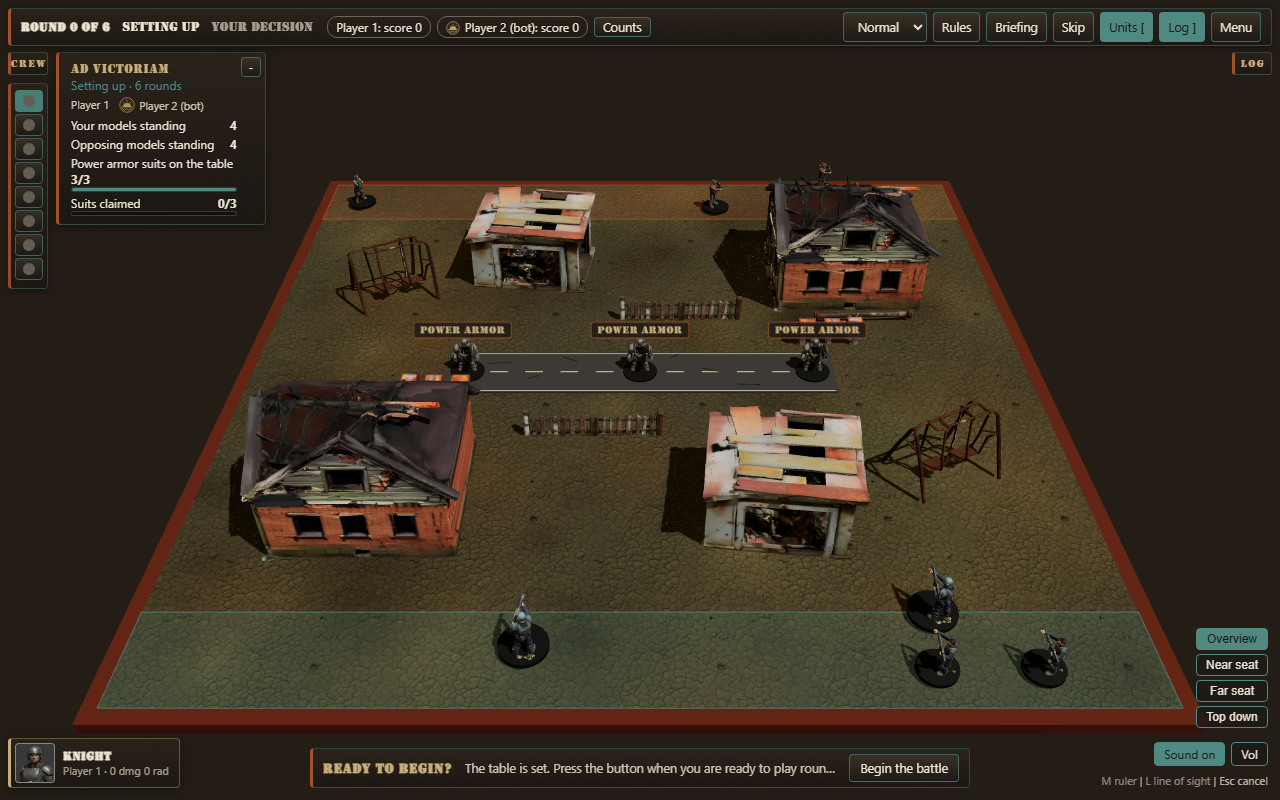
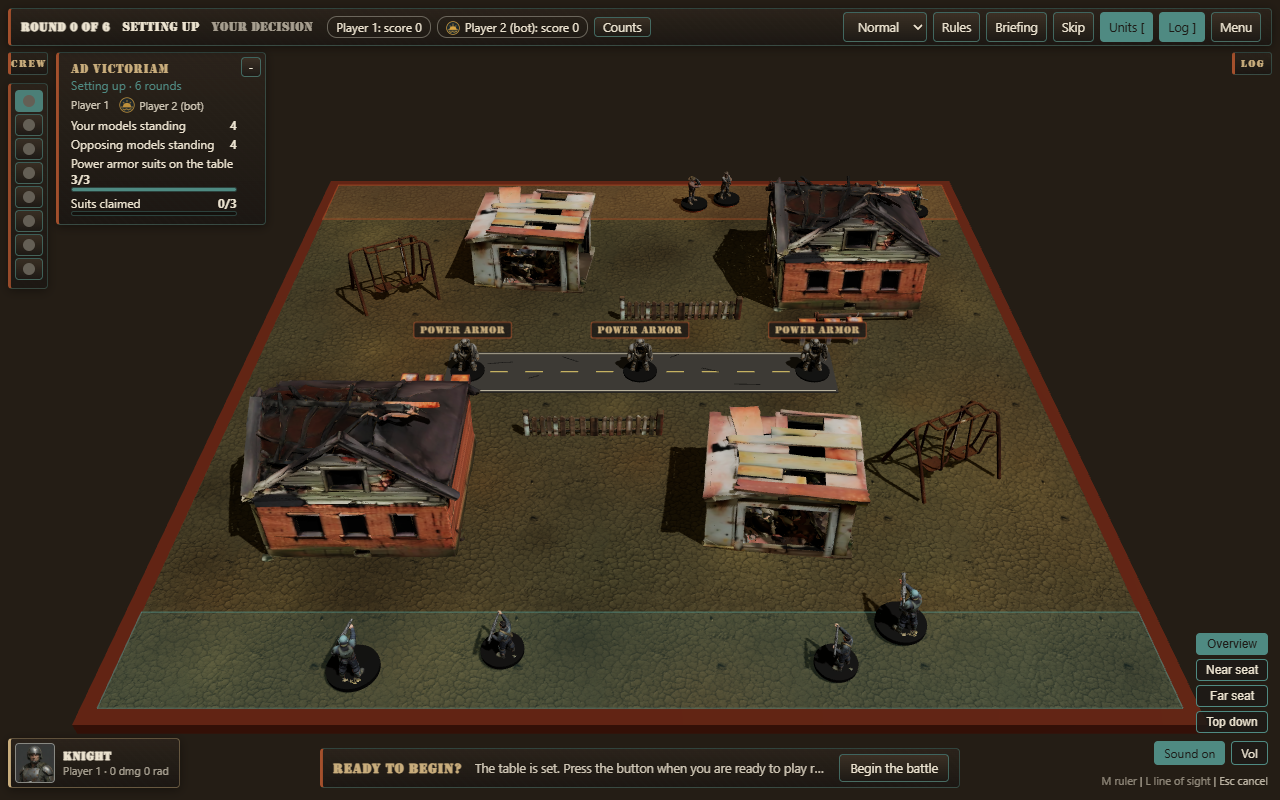
M6b: polish (campaign card on the first screen, settlement layout, force-pick hint, bottom-edge layout, lighter briefing backdrop and table theme from the campaign launch), carry-off victories fire when a carrier leaves the table, handoff refreshed

diff --git a/src/client/ui/settlement/SettlementScreen.tsx b/src/client/ui/settlement/SettlementScreen.tsx
@@ -74,9 +74,11 @@ export function SettlementScreen({ onLeave, host: h }: { onLeave: () => void; ho
           <StepList steps={steps} cursor={cursor} />
         </div>
         <div className="st-col" aria-label="This step">
+          {/* On the last step the choice of battle is the whole point, so it comes first; before that it waits under the step. */}
+          {step?.id === 'toBattle' && <NextBattlePanel />}
           {step ? <StepPanel step={step} last={cursor >= steps.length - 1} /> : <p className="st-empty">Nothing to do right now.</p>}
           {error && <p className="st-err" role="alert" data-testid="settlement-error">{error}</p>}
-          <NextBattlePanel />
+          {step?.id !== 'toBattle' && <NextBattlePanel />}
         </div>
         <div className="st-col" aria-label="What you have">
           <RosterPanel />
@@ -168,6 +170,7 @@ function StepPanel({ step, last }: { step: StepView; last: boolean }) {
       <h3 data-testid="settlement-step-title">{copy.title}</h3>
       <p className="st-note">{copy.blurb || step.blurb}</p>
       <p className="st-note"><b>{copy.decision || step.decision}</b></p>
+      {step.hint && <p className="st-note" data-testid="step-hint">{step.hint}</p>}
       {step.auto && step.choices.length === 0 && <p className="st-empty" data-testid="step-auto">Nothing to decide here.</p>}
       {step.choices.length === 0 && !step.auto && <p className="st-empty" data-testid="step-nothing">Nothing on offer right now.</p>}
       {multi && <p className="st-note" data-testid="step-picked">Picked {picked.length} of up to {multi.max}.</p>}
@@ -183,7 +186,7 @@ function StepPanel({ step, last }: { step: StepView; last: boolean }) {
           <button className="st-btn primary" data-testid="step-confirm" disabled={picked.length < multi.min} onClick={() => { if (act(multi.confirm!(picked))) setPicked([]) }}>{multi.confirmLabel ?? 'Confirm'}</button>
         )}
         {step.id === 'toBattle'
-          ? <p className="st-note" data-testid="step-battle-note">Pick the scenario and opponent below, then press To battle.</p>
+          ? <p className="st-note" data-testid="step-battle-note">Pick the scenario and opponent in the panel above, then press To battle.</p>
           : <button className={multi ? 'st-btn' : 'st-btn primary'} data-testid="step-next" onClick={finishStep}>{last ? 'Done' : step.optional || step.auto ? 'Next step' : 'Done with this step'}</button>}
       </div>
     </section>
@@ -215,13 +218,15 @@ const pickListeners = new Set<() => void>()
 function readPick(): NextBattle {
   if (!sharedPick) {
     const saved = host().readJson<Partial<NextBattle>>(NEXT_KEY) ?? {}
-    sharedPick = { scenarioId: saved.scenarioId ?? 'box-1', opponent: saved.opponent ?? 'bot', seed: '' }
+    // The table theme starts as the one picked on the start screen, so a campaign table looks like a normal launch.
+    const theme = saved.theme !== undefined ? saved.theme : host().startTheme()
+    sharedPick = { scenarioId: saved.scenarioId ?? 'box-1', opponent: saved.opponent ?? 'bot', seed: '', theme: theme && host().themes.some((t) => t.id === theme) ? theme : null }
   }
   return sharedPick
 }
 function setPick(p: Partial<NextBattle>): void {
   sharedPick = { ...readPick(), ...p }
-  host().writeJson(NEXT_KEY, { scenarioId: sharedPick.scenarioId, opponent: sharedPick.opponent })
+  host().writeJson(NEXT_KEY, { scenarioId: sharedPick.scenarioId, opponent: sharedPick.opponent, theme: sharedPick.theme })
   pickListeners.forEach((f) => f())
 }
 
@@ -247,7 +252,8 @@ function useNextBattle(): NextBattleState {
   const problem = scenarios.length ? opponentProblem(pick.opponent, chosen) : null
   const go = () => {
     const r = prepareBattle(pick)
-    if (r) host().launchGame(r.options)
+    // A themed table only dresses an open skirmish table against a bot or a friend; any other scenario keeps its own terrain.
+    if (r) host().launchGame({ ...r.options, ...(pick.theme && pick.opponent !== 'official' && host().themeable(r.options.scenarioId ?? pick.scenarioId) ? { theme: pick.theme } : {}) })
   }
   return { pick, set: setPick, scenarios, problem, ready: problem === null, go }
 }
@@ -255,6 +261,7 @@ function useNextBattle(): NextBattleState {
 function NextBattlePanel() {
   const nb = useNextBattle()
   const { pick } = nb
+  const themeable = pick.opponent !== 'official' && host().themeable(pick.scenarioId)
   return (
     <section className="st-panel" data-testid="next-battle">
       <h2>Next battle</h2>
@@ -273,6 +280,15 @@ function NextBattlePanel() {
           </button>
         ))}
       </div>
+      {themeable && (
+        <>
+          <p className="st-note">Table theme</p>
+          <div className="st-pick" data-testid="next-theme">
+            <button aria-pressed={!pick.theme} data-testid="next-theme-none" onClick={() => nb.set({ theme: null })}>Scenario layout</button>
+            {host().themes.map((t) => <button key={t.id} aria-pressed={pick.theme === t.id} data-testid={`next-theme-${t.id}`} onClick={() => nb.set({ theme: t.id })}>{t.label}</button>)}
+          </div>
+        </>
+      )}
       <p className="st-note"><label htmlFor="nb-seed">Dice seed (optional)</label></p>
       <input id="nb-seed" type="text" data-testid="next-seed" placeholder="random" maxLength={40} value={pick.seed} onChange={(e) => nb.set({ seed: e.target.value })} />
       {nb.problem && <p className="st-err" data-testid="next-problem">{nb.problem}</p>}

diff --git a/src/client/ui/StartScreen.tsx b/src/client/ui/StartScreen.tsx
@@ -48,6 +48,9 @@ const SETTLEMENT_HOST: SettlementHost = {
   launchGame, loadScenarioChoices, loadCampaignFactions, hasCampaignSave, readJson, writeJson, removeKey,
   openRequest: () => { const s = useLaunchStore.getState(); return { mode: s.campaignMode, seed: s.campaignSeed, faction: s.campaignFaction } },
   testMode: () => readParams().test,
+  themes: THEMES.map((t) => ({ id: t.id, label: t.label })),
+  themeable: (scenarioId) => THEMEABLE.has(scenarioId),
+  startTheme: () => asTheme(readJson<Partial<Prefs>>(PREF_KEY)?.theme),
 }
 
 function StartMenu() {
@@ -119,6 +122,28 @@ function StartMenu() {
         <h1>Fell-in: Wasteland Warfair</h1>
         <p className="tag">A 3D tabletop skirmish on a dusty 3 by 3 foot table.</p>
         <p className="sc-note">New to the game? <HowToPlayButton link testId="start-how-to-play" label="Read how to play" /></p>
+
+        <section className="sc-sec" aria-label="Campaign">
+          <h2 className="sc-h">Campaign</h2>
+          <div className="sc-row" data-testid="campaign-modes">
+            <button className="sc-chip" data-testid="campaign-new" onClick={() => openCampaign('new', null, campaignFaction)}>
+              New campaign<small>Build a settlement between battles: spend caps, store gear, pick the next fight.</small>
+            </button>
+            {campaignSave && (
+              <button className="sc-chip" data-testid="campaign-continue" onClick={() => openCampaign('continue')}>
+                Continue campaign<small>{campaignSave.name}, round {campaignSave.round}, {campaignSave.caps} caps</small>
+              </button>
+            )}
+          </div>
+          {factions.length > 1 && (
+            <div className="sc-row sc-factions" data-testid="campaign-faction">
+              <span className="sc-note">Start as</span>
+              {factions.map((f) => (
+                <button key={f.id} className="sc-chip" aria-pressed={campaignFaction === f.id} data-testid={`campaign-faction-${f.id}`} onClick={() => { setFaction(f.id); writeJson(PREF_KEY, { scenarioId, mode, tier, team, theme, faction: f.id }) }}>{f.name}</button>
+              ))}
+            </div>
+          )}
+        </section>
 
         <section className="sc-sec" aria-label="Scenario">
           <h2 className="sc-h">Scenario</h2>
@@ -217,26 +242,6 @@ function StartMenu() {
             </button>
           )}
         </div>
-
-        <section className="sc-sec" aria-label="Campaign">
-          <h2 className="sc-h">Campaign</h2>
-          <p className="sc-note">Build a settlement between battles: spend caps, store gear, pick the next fight.</p>
-          {factions.length > 1 && (
-            <div className="sc-row" data-testid="campaign-faction" style={{ marginTop: 6 }}>
-              {factions.map((f) => (
-                <button key={f.id} className="sc-chip" aria-pressed={campaignFaction === f.id} data-testid={`campaign-faction-${f.id}`} onClick={() => { setFaction(f.id); writeJson(PREF_KEY, { scenarioId, mode, tier, team, theme, faction: f.id }) }}>{f.name}</button>
-              ))}
-            </div>
-          )}
-          <div className="sc-actions" style={{ marginTop: 8, justifyContent: 'flex-start' }}>
-            <button className="go alt" data-testid="campaign-new" onClick={() => openCampaign('new', null, campaignFaction)}>New campaign</button>
-            {campaignSave && (
-              <button className="go alt" data-testid="campaign-continue" onClick={() => openCampaign('continue')}>
-                Continue campaign ({campaignSave.name}, round {campaignSave.round}, {campaignSave.caps} caps)
-              </button>
-            )}
-          </div>
-        </section>
 
         <p className="fine" data-testid="disclaimer">
           Unofficial fan project, not affiliated with Modiphius Entertainment, Bethesda Softworks or ZeniMax. By evilgouki.

diff --git a/tests/engine/carry-off.test.ts b/tests/engine/carry-off.test.ts
@@ -1,0 +1,60 @@
+// Carry-off victories: a model that walks off the table with a scenario object takes it with it (MOVE-011, BOX-2 / BOX-3).
+import { describe, expect, it } from 'vitest'
+import { apply } from '../../src/engine/apply'
+import { activationMenu } from '../../src/engine/turnflow'
+import { checkVictory } from '../../src/engine/scenario'
+import { createGame } from '../../src/engine/setup'
+import { withPending, loadBundle } from './helpers'
+import type { GameState, Vec2 } from '../../src/engine/types'
+
+const bundle = loadBundle()
+
+/** A box scenario in play, the first model of `seat` ready, activated and next to the south edge, carrying the first `face` marker. */
+function carrierAtEdge(scenarioId: string, seat: string, face: string, otherEdge = false): { s: GameState; id: string } {
+  const g = createGame(bundle, { seed: 'carry', scenarioId })
+  const mk = g.markers.find((m) => m.face === face)!
+  const m = Object.values(g.models).find((x) => x.owner === seat && x.life === 'active' && !x.offTable)!
+  const z = otherEdge ? -16.5 : 16.5
+  const models = Object.fromEntries(Object.entries(g.models).map(([k, v]) => [k, k === m.id ? { ...v, pos: { x: 0, z }, readiness: 'ready' as const } : { ...v, pos: { x: v.pos.x > 0 ? 12 : -12, z: v.pos.z > 0 ? 8 : -8 } }]))
+  const base: GameState = {
+    ...g, models, phase: 'play', round: 1, advantage: seat, terrain: [],
+    markers: g.markers.map((k) => (k.id === mk.id ? { ...k, carriedBy: m.id, pos: { x: 0, z } } : k)),
+    turn: { seat, step: 'use', readied: m.id, firstSeat: seat },
+    activation: { modelId: m.id, actionsTaken: 0, ap: 0, apIconsUsed: [], heavyFired: false, testsUsed: [] },
+  }
+  const menu = activationMenu(base, bundle, m.id)
+  const go = menu.find((o) => o.action.type === 'move.go')!
+  const open = withPending(base, { seat, kind: 'turn.activation', context: {}, options: menu, canPass: false })
+  const r = apply(open, bundle, open.pending.options.find((o) => o.id === go.id)!.action)
+  if (!r.ok) throw new Error(r.rejection.message)
+  return { s: r.state, id: m.id }
+}
+const exit = (s: GameState, path: Vec2[]) => {
+  const to = s.pending.options.find((o) => o.action.type === 'move.to')!
+  const r = apply(s, bundle, { ...to.action, path })
+  if (!r.ok) throw new Error(r.rejection.message)
+  return r.state
+}
+
+describe('carry-off', () => {
+  it('MOVE-011 a model walking off the table takes the nuke it carries: the marker is flagged off the table with the carrying seat and the attacker wins box-2', () => {
+    const seat = Object.entries(createGame(bundle, { seed: 'carry', scenarioId: 'box-2' }).seats).find(([, v]) => v.side === 'attacker')![0]
+    const { s, id } = carrierAtEdge('box-2', seat, 'mini-nuke')
+    const after = exit(s, [{ x: 0, z: 19 }])
+    expect(after.models[id]!.life).toBe('dead')
+    const nuke = after.markers.find((m) => m.face === 'mini-nuke')!
+    expect(nuke.props.offTable).toBe(true)
+    expect(nuke.props.offTableBy).toBe(seat)
+    expect(after.result?.winner ?? checkVictory(after, bundle)?.winner).toBe(seat)
+  })
+
+  it('MOVE-011 a model that only walks along the edge keeps what it carries', () => {
+    const seat = Object.entries(createGame(bundle, { seed: 'carry', scenarioId: 'box-2' }).seats).find(([, v]) => v.side === 'attacker')![0]
+    const { s, id } = carrierAtEdge('box-2', seat, 'mini-nuke')
+    const after = exit(s, [{ x: 2, z: 16.5 }])
+    expect(after.models[id]!.life).toBe('active')
+    const nuke = after.markers.find((m) => m.face === 'mini-nuke')!
+    expect(nuke.carriedBy).toBe(id)
+    expect(nuke.props.offTable).not.toBe(true)
+  })
+})

diff --git a/src/client/ui/settlement/choices.ts b/src/client/ui/settlement/choices.ts
@@ -74,7 +74,7 @@ function buildStep(c: Campaign, id: StepId, i: number, p: CampaignPlayer, d: Cam
     case 'afterBattle.sell':
     case 'select.sell':
     case 'toBattle':
-      return { ...s, auto: true }
+      return { ...s, auto: true, ...(p.force ? {} : { hint: noForceHint(true) }) }
 
     case 'afterBattle.retain': {
       const normal = p.phase.gathered.filter((x) => !x.unique)
@@ -345,6 +345,11 @@ export function autoForce(p: CampaignPlayer, d: CampaignData, limit: number): Fo
   return plan
 }
 
+/** What happens when nobody was picked: the layer's startBattle takes the regular force (adapter.ts), so the screen says so. */
+function noForceHint(onBattleStep: boolean): string {
+  return `${onBattleStep ? 'No force picked yet: ' : 'Leave this empty and '}To battle fields a regular force (${DEFAULT_FORCE_LIMIT} caps) for you, the leader first and then your roster in order.`
+}
+
 function forceStep(s: StepView, p: CampaignPlayer, d: CampaignData): StepView {
   const seat = p.seat
   // Every unit is on offer (CH p24); its price counts inside the force value, nothing is paid here.
@@ -368,7 +373,7 @@ function forceStep(s: StepView, p: CampaignPlayer, d: CampaignData): StepView {
   const limit = p.force?.capsLimit ?? DEFAULT_FORCE_LIMIT
   const toggles = [...members, ...perks, ...heroic]
   return {
-    ...s, optional: false,
+    ...s, optional: false, ...(p.force ? {} : { hint: noForceHint(false) }),
     decision: p.force ? `Your force is set: ${p.force.members.length} model${p.force.members.length === 1 ? '' : 's'}, ${p.force.value} of ${p.force.capsLimit} caps. Change it, or head to battle.` : 'Pick who fights, or take a quick pick.',
     choices: [...auto, ...toggles, ...hire, ...dismiss],
     multi: {

diff --git a/src/client/ui/styles.css b/src/client/ui/styles.css
@@ -21,11 +21,11 @@ body { margin: 0; overflow: hidden; }
 .hud .title { color: var(--sand); font-weight: 600; margin-right: 8px; }
 
 /* camera presets live bottom-right (the top bar used to cover them); the title is already on the start screen and in the tab */
-.game > .hud { top: auto; left: auto; right: 12px; bottom: 72px; flex-direction: column; align-items: stretch; gap: 4px; }
+.game > .hud { top: auto; left: auto; right: 12px; bottom: 67px; flex-direction: column; align-items: stretch; gap: 4px; }
 .game > .hud .title { display: none; }
 .game > .hud button { padding: 3px 9px; font-size: 12px; }
 @media (max-width: 900px) { .game > .hud { bottom: auto; top: 104px; right: 6px; } }
 
-/* bottom-right corner, bottom to top: key hints (Interaction, bottom 12) / sound buttons (AudioHost, bottom 34, the volume panel opens to their left) / camera presets (bottom 72) */
+/* bottom-right corner, bottom to top: key hints (Interaction, bottom 12) / sound buttons (AudioHost, bottom 35, the volume panel opens to their left) / camera presets (bottom 67), each 8 px apart */
 [data-testid="audio-toggle"], [data-testid="audio-volume"] { font: inherit; font-size: 12px; background: rgba(29,26,22,.9); color: var(--bone); border: 1px solid var(--teal); border-radius: 4px; padding: 3px 9px; cursor: pointer; }
 [data-testid="audio-toggle"][aria-pressed="true"] { background: var(--teal); color: var(--ink); }

diff --git a/src/client/audio/AudioHost.tsx b/src/client/audio/AudioHost.tsx
@@ -10,7 +10,9 @@ import { audio, type AudioSettings } from './manager'
 import { roundVoiceId } from './manifest'
 import { yourTurnRound } from './triggers'
 
-const box: React.CSSProperties = { position: 'fixed', right: 12, bottom: 34, zIndex: 6, display: 'flex', flexDirection: 'row-reverse', alignItems: 'flex-end', gap: 6 }
+// Bottom-right stack, bottom to top, 8 px apart: key hints (Interaction, bottom 12, about 15 px tall) / these buttons (bottom 35, 24 px tall) /
+// camera presets (styles.css, bottom 67). The volume panel opens to the left of the buttons (they stay put), clear of the centred prompt bar (hud.css).
+const box: React.CSSProperties = { position: 'fixed', right: 12, bottom: 35, zIndex: 6, display: 'flex', alignItems: 'flex-end', gap: 6 }
 
 /** `death-<kind>` for a model, read from its unit record. */
 function deathSoundFor(modelId: string): string {
@@ -65,7 +67,7 @@ export function AudioHost() {
 
   return (
     <div style={box}>
-      {open && <SoundSettings settings={s} />}
+      {open && <div style={{ marginBottom: 28 }}><SoundSettings settings={s} /></div>}
       <div style={{ display: 'flex', gap: 6 }}>
         <button data-testid="audio-toggle" aria-pressed={!s.muted} aria-label={s.muted ? 'Unmute sound' : 'Mute sound'} title={s.muted ? 'Sound off' : 'Sound on'} onClick={() => audio.set({ muted: !s.muted })}>
           {s.muted ? 'Sound off' : 'Sound on'}

diff --git a/src/client/ui/hud.css b/src/client/ui/hud.css
@@ -186,7 +186,9 @@
 
 /* decision prompt: a compact single-row bar anchored at the bottom (title, one line, buttons), expanding upward on hover or focus.
    Collapsed it is ~40 px tall, so at 1280x800 it covers well under 90 px of the table above the bottom edge. */
-.dock:has(.prompt.compact) { width: min(660px, calc(100vw - 24px)); }
+/* Bottom edge: the selected-model chip sits bottom-left (up to 238 px), the sound, hint and camera stack bottom-right (up to ~200 px), so
+   the centred prompt bar keeps 252 px free on each side and never reaches either. */
+.dock:has(.prompt.compact) { width: min(640px, calc(100vw - 2 * 252px)); }
 .prompt.compact { display: grid; grid-template-columns: auto minmax(0, 1fr) auto; align-items: center; gap: 2px 12px; padding: 5px 10px; }
 .prompt.compact h3 { margin: 0; white-space: nowrap; }
 .prompt.compact .hint { margin: 0; white-space: nowrap; overflow: hidden; text-overflow: ellipsis; }
@@ -198,3 +200,4 @@
 .prompt.compact:hover .tip, .prompt.compact:focus-within .tip { display: block; margin: 0; }
 .prompt.compact:hover .options, .prompt.compact:focus-within .options { flex-wrap: wrap; justify-content: flex-start; margin-top: 2px; }
 @media (max-width: 600px) { .dock:has(.prompt.compact) { width: calc(100vw - 16px); } }
+@media (max-width: 900px) { .dock:has(.prompt.compact) { width: min(640px, calc(100vw - 24px)); } }

diff --git a/src/client/ui/settlement/stepCopy.ts b/src/client/ui/settlement/stepCopy.ts
@@ -22,7 +22,7 @@ export const STEP_COPY: Record<string, StepCopy> = {
   'select.sell': { part: PARTS[3], title: 'Sell what is left', blurb: 'Anything still in the pool is sold for caps.', decision: 'Nothing to decide unless you change your mind.' },
   'force.create': { part: PARTS[4], title: 'Pick your force', blurb: 'Choose units up to the caps limit, hand out your chosen gear and equip the perks you want to use.', decision: 'Which units fight, with what?' },
   'force.quest': { part: PARTS[4], title: 'Pick a quest', blurb: 'A quest gives the next fight a side goal and a prize.', decision: 'Which quest do you chase?' },
-  toBattle: { part: PARTS[4], title: 'To battle', blurb: 'Choose the scenario and who you face, then head out.', decision: 'Where and against whom?' },
+  toBattle: { part: PARTS[4], title: 'To battle', blurb: 'Choose the scenario and who you face, then head out. With no force picked, a regular one goes with you.', decision: 'Where and against whom?' },
 }
 
 /** Friendly title and text for a step id; uses the layer's own text when the id is not in the table. */

diff --git a/src/client/ui/settlement/model.ts b/src/client/ui/settlement/model.ts
@@ -38,6 +38,8 @@ export interface StepView {
   /** The player may leave the step without choosing (most steps). */
   optional: boolean
   state: StepState
+  /** One extra plain-words line under the question (what happens if the player leaves the step alone). */
+  hint?: string
   /** What the layer wants dispatched to close the step; null = just move on in the screen. */
   finish: unknown | null
   /** Pick-several steps: the choices become toggles and `confirm` builds the one action from the picked choice ids. */
@@ -97,6 +99,6 @@ export const OPPONENTS: OpponentChoice[] = [
   { id: 'human', label: 'A friend', blurb: 'Two players, one screen, taking turns.' },
 ]
 
-export interface NextBattle { scenarioId: string; opponent: OpponentChoice['id']; seed: string }
+export interface NextBattle { scenarioId: string; opponent: OpponentChoice['id']; seed: string; /** Table theme for an open skirmish table; none or null = the scenario's own layout. */ theme?: string | null }
 
 export type { CampaignForce, NewGameOptions, SeatController }

diff --git a/src/engine/movement.ts b/src/engine/movement.ts
@@ -278,7 +278,12 @@ function moveTo(state: GameState, bundle: EditionBundle, action: Action): StepRe
     s = detonate(updateModel(s, id, { pos: c.point }), bundle, c.mine)
     if (!alive(s, id)) return { state: s, done }
   }
-  if (exits) return { state: removeModel(s, bundle, id, 'left the table'), done } // MOVE-011
+  if (exits) {
+    // MOVE-011. A scenario object the model carries leaves with it: flag it off the table, with the carrying seat, before removeModel drops it.
+    const seat = s.models[id]?.owner ?? ''
+    s = { ...s, markers: s.markers.map((k) => (k.carriedBy === id ? { ...k, props: { ...k.props, offTable: true, offTableBy: seat } } : k)) }
+    return { state: removeModel(s, bundle, id, 'left the table'), done }
+  }
   // Climbing (MOVE-007): an Agility test; failing falls from where the climb began and ends the Action.
   if (climbing) {
     const t = agiTest(s, bundle, id, 'climb')

diff --git a/src/client/ui/SoundSettings.tsx b/src/client/ui/SoundSettings.tsx
@@ -2,7 +2,7 @@
 // Rendered by AudioHost; values persist through the audio manager.
 import { audio, type AudioSettings } from '../audio/manager'
 
-const panel: React.CSSProperties = { background: 'rgba(29,26,22,.94)', border: '1px solid #8a7a5c', borderRadius: 4, padding: '8px 10px', fontSize: 12, color: '#e8dfc8', display: 'grid', gridTemplateColumns: 'auto 110px', gap: '6px 8px', alignItems: 'center' }
+const panel: React.CSSProperties = { background: 'rgba(29,26,22,.94)', border: '1px solid #8a7a5c', borderRadius: 4, padding: '8px 10px', fontSize: 12, color: '#e8dfc8', display: 'grid', gridTemplateColumns: 'auto 84px', gap: '6px 8px', alignItems: 'center' }
 
 type VolumeKey = 'master' | 'sfx' | 'music' | 'voice'
 const SLIDERS: [string, VolumeKey][] = [['Master', 'master'], ['Effects', 'sfx'], ['Music', 'music'], ['Voice', 'voice']]

diff --git a/src/client/ui/settlement/settlement.css b/src/client/ui/settlement/settlement.css
@@ -20,7 +20,8 @@
 .st-head .st-btn.primary { padding: 10px 22px; font-size: 16px; }
 
 .st-main { display: grid; grid-template-columns: 250px minmax(0, 1fr) 320px; gap: 12px; padding: 12px 18px; min-height: 0; }
-.st-col { min-height: 0; overflow: auto; display: flex; flex-direction: column; gap: 10px; }
+.st-col { min-height: 0; overflow: auto; display: flex; flex-direction: column; gap: 10px; scrollbar-width: thin; scrollbar-color: #6b5a42 transparent; padding-right: 4px; }
+.st-col > * { flex: none; }
 .st-panel { background: rgba(29,26,22,.92); border: 1px solid #4f8a8266; border-left: 3px solid var(--rust); border-radius: 4px; padding: 10px 12px; }
 .st-panel h2 { font-size: 12px; letter-spacing: .14em; text-transform: uppercase; color: var(--teal); margin-bottom: 6px; }
 .st-panel h3 { font-size: 16px; color: var(--sand); }
